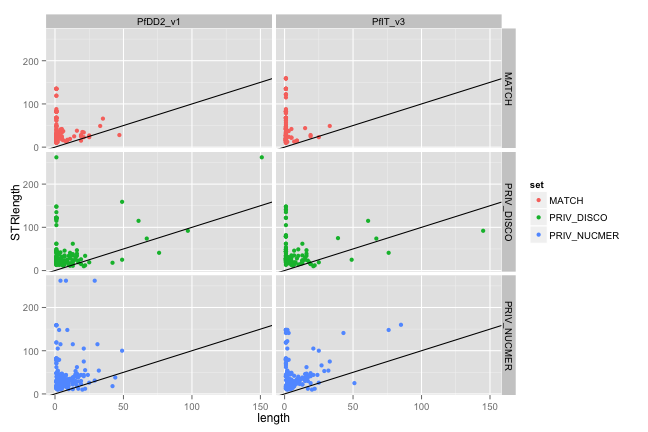
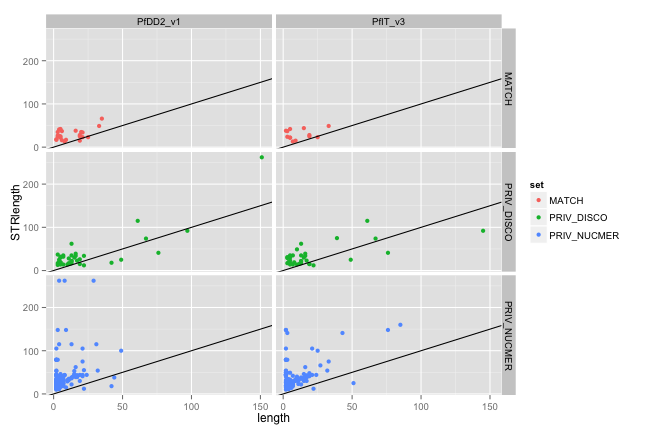
minor bugfix STR report

diff --git a/reports/150708_2_cdDiscoNuc_STRs/runAnalysisSTRs.md b/reports/150708_2_cdDiscoNuc_STRs/runAnalysisSTRs.md
@@ -68,14 +68,19 @@ ATpc
 ##STR length v indel length
 
 ```r
-len_len <- ggplot(subset(nuccfs,STR!="NULL" & ref1 == "Pf3D7_v3"),aes(y=STRlength,x=length, colour=set)) + geom_point()  + facet_grid(set ~ ref2)+
+len_len <- ggplot(subset(nuccfs,STR!="NULL" & ref1 == "Pf3D7_v3" & type=="INDEL"),aes(y=STRlength,x=length, colour=set)) + geom_point()  + facet_grid(set ~ ref2)+
   geom_abline(intercept=0,slope=1)
 len_len
 ```
 
 ![plot of chunk unnamed-chunk-5](figure/unnamed-chunk-5-1.png) 
 ###log scale: 
+
+```r
 len_len + scale_y_log10() + scale_x_log10()
+```
+
+![plot of chunk unnamed-chunk-6](figure/unnamed-chunk-6-1.png) 
 
 ##STR period v indel length
 
@@ -85,7 +90,7 @@ period_len <- ggplot(subset(nuccfs,type=="INDEL" & STR!="NULL" & ref1 == "Pf3D7_
 period_len; period_len + scale_y_log10() + scale_x_log10()
 ```
 
-![plot of chunk unnamed-chunk-6](figure/unnamed-chunk-6-1.png) ![plot of chunk unnamed-chunk-6](figure/unnamed-chunk-6-2.png) 
+![plot of chunk unnamed-chunk-7](figure/unnamed-chunk-7-1.png) ![plot of chunk unnamed-chunk-7](figure/unnamed-chunk-7-2.png) 
 ###log scale
 
 
@@ -100,13 +105,13 @@ lenrem_hist <- ggplot(subset(nuccfs,type=="INDEL" & STR!="NULL" & ref1 == "Pf3D7
 print(period_lenrem)
 ```
 
-![plot of chunk unnamed-chunk-8](figure/unnamed-chunk-8-1.png) 
+![plot of chunk unnamed-chunk-9](figure/unnamed-chunk-9-1.png) 
 
 ```r
 print(lenrem_hist)
 ```
 
-![plot of chunk unnamed-chunk-8](figure/unnamed-chunk-8-2.png) 
+![plot of chunk unnamed-chunk-9](figure/unnamed-chunk-9-2.png) 
 
 ##presence of STR vs call concordance
 
@@ -115,7 +120,7 @@ hasSTR <- ggplot(subset(nuccfs,ref1 == "Pf3D7_v3"),aes(x=set, group=(STR!="NULL"
 hasSTR
 ```
 
-![plot of chunk unnamed-chunk-9](figure/unnamed-chunk-9-1.png) 
+![plot of chunk unnamed-chunk-10](figure/unnamed-chunk-10-1.png) 
 
 ##STR type (A/TA/complex) vs call concordance
 
@@ -124,4 +129,4 @@ STRtype <- ggplot(subset(nuccfs,ref1 == "Pf3D7_v3" & STR!="NULL"),aes(x=set, gro
 STRtype
 ```
 
-![plot of chunk unnamed-chunk-10](figure/unnamed-chunk-10-1.png) 
+![plot of chunk unnamed-chunk-11](figure/unnamed-chunk-11-1.png) 
